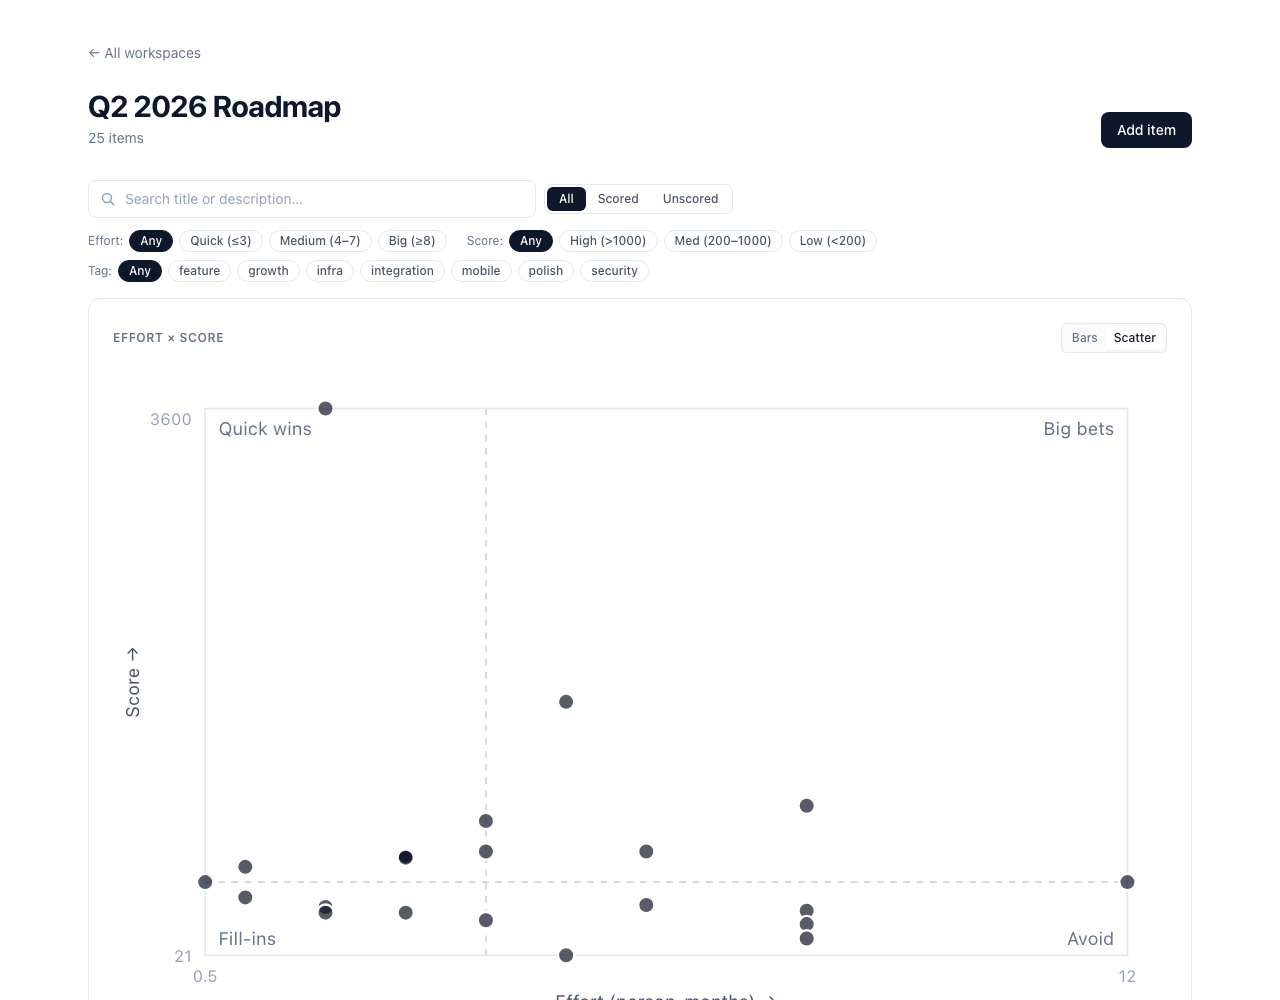
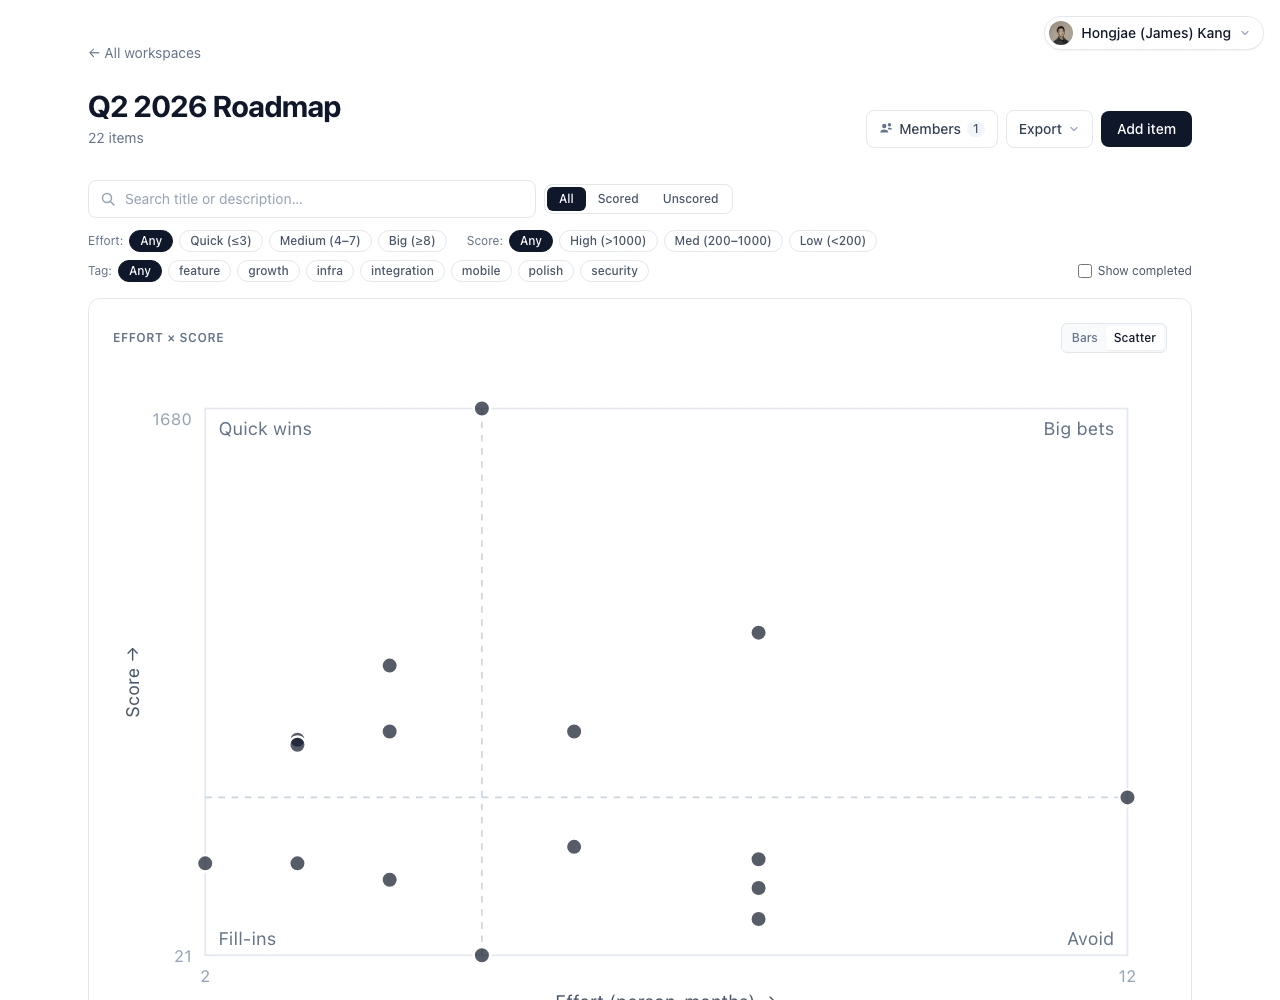
docs: refresh screenshot gallery for the shipped product
The README's screenshot story was stuck on a single-user RICE board
when the actual product now has four frameworks, collab, completion,
and three export targets. New gallery walks visitors through the
real shipped surface.

Capture infra
- `apps/web/scripts/capture-screenshots.mjs` accepts a `BEARER` env
  (the raw NextAuth session JWT from `/api/token`) and installs it
  as the `__Secure-authjs.session-token` cookie before each
  navigation. Without it the live deployment lands the headless
  browser on /auth/signin.
- Default workspace IDs now point at the production demo workspaces
  for each framework (`WS_RICE` / `WS_ICE` / `WS_MOSCOW` / `WS_VE`,
  all env-overridable).
- Seven new shots: ICE board, MoSCoW board, Value × Effort board,
  the completed-visible retro view, the Export dropdown open, the
  Members modal open, and the create-workspace modal with the
  custom framework dropdown expanded.
- Two interactive shots (members + framework picker) use
  `page.waitForLoadState("networkidle")` after the trigger click so
  the API round trip resolves before the screenshot fires.

Production build
- New `apps/web/.env.production` pins `NEXT_PUBLIC_API_BASE_URL` to
  the Render hostname. Without this file the local `next-on-pages`
  build inlined `http://localhost:8000` into the client bundle —
  which the browser refused to fetch from the public Cloudflare
  Pages origin as "private network access denied". SSR worked
[…]

diff --git a/README.md b/README.md
@@ -25,36 +25,54 @@
 
 ## Screenshots
 
-The board at a glance — filter bar, top-10 bar chart, and the table:
+The Q2 roadmap board at a glance — Members + Export + Add controls, framework-aware metric legend, Top-10 bar chart, the table, and the filter chips:
 
-![Board hero — Q2 2026 Roadmap with filters and bar chart](./docs/screenshots/01-board-hero.png)
+![Board hero — Q2 2026 Roadmap with members, export, filters, and bar chart](./docs/screenshots/01-board-hero.png)
 
 <table>
   <tr>
+    <td width="50%"><strong>Pick a framework per workspace</strong><br><sub>Custom dropdown on the create modal — every workspace can use a different prioritization framework</sub></td>
+    <td width="50%"><strong>ICE board</strong><br><sub>Polymorphic board with framework-specific columns (Impact / Confidence / Ease, 1–10 scale) and the I × C × E formula in the legend</sub></td>
+  </tr>
+  <tr>
+    <td><a href="./docs/screenshots/13-framework-picker.png"><img src="./docs/screenshots/13-framework-picker.png" alt="Framework dropdown on the create workspace modal — RICE, ICE, Value × Effort, MoSCoW"></a></td>
+    <td><a href="./docs/screenshots/07-ice-board.png"><img src="./docs/screenshots/07-ice-board.png" alt="ICE board with Impact / Confidence / Ease columns"></a></td>
+  </tr>
+  <tr>
+    <td width="50%"><strong>MoSCoW board</strong><br><sub>Categorical Must / Should / Could / Won't bucket assignments with their own framework intro line</sub></td>
+    <td width="50%"><strong>Value × Effort board</strong><br><sub>Two-input score = V ÷ E. Same polymorphic board variant; only the columns + formula change</sub></td>
+  </tr>
+  <tr>
+    <td><a href="./docs/screenshots/08-moscow-board.png"><img src="./docs/screenshots/08-moscow-board.png" alt="MoSCoW board with Must / Should / Could / Won't buckets"></a></td>
+    <td><a href="./docs/screenshots/09-value-effort-board.png"><img src="./docs/screenshots/09-value-effort-board.png" alt="Value × Effort board"></a></td>
+  </tr>
+  <tr>
+    <td width="50%"><strong>Invite teammates by email</strong><br><sub>Members modal — owner adds scorers; each member writes their own score row and the board ranks by the team aggregate</sub></td>
+    <td width="50%"><strong>Export menu (CSV / Notion / Linear)</strong><br><sub>Three targets behind a single dropdown. CSV downloads client-side; Notion and Linear hit per-user tokens stored against the user</sub></td>
+  </tr>
+  <tr>
+    <td><a href="./docs/screenshots/12-members-modal.png"><img src="./docs/screenshots/12-members-modal.png" alt="Members modal with owner pill and invite form"></a></td>
+    <td><a href="./docs/screenshots/11-export-menu.png"><img src="./docs/screenshots/11-export-menu.png" alt="Export dropdown showing CSV, Notion, and Linear options"></a></td>
+  </tr>
+  <tr>
+    <td width="50%"><strong>Completion checkbox + retro view</strong><br><sub>Shipped items strike through and sink to the bottom; <code>?completed=show</code> mixes them back in for the retrospective</sub></td>
     <td width="50%"><strong>Effort × Score scatter (RICE)</strong><br><sub>PM's classic 2×2 quadrant: Quick wins / Big bets / Fill-ins / Avoid</sub></td>
-    <td width="50%"><strong>Multiple workspaces, multiple frameworks</strong><br><sub>Each workspace picks its own scoring framework — RICE, ICE, Value × Effort, or MoSCoW</sub></td>
   </tr>
   <tr>
+    <td><a href="./docs/screenshots/10-completed-visible.png"><img src="./docs/screenshots/10-completed-visible.png" alt="Board with completed items visible, struck-through and dimmed"></a></td>
     <td><a href="./docs/screenshots/02-scatter-view.png"><img src="./docs/screenshots/02-scatter-view.png" alt="Effort × Score scatter plot"></a></td>
-    <td><a href="./docs/screenshots/03-workspaces-list.png"><img src="./docs/screenshots/03-workspaces-list.png" alt="Workspaces list"></a></td>
   </tr>
   <tr>
-    <td width="50%"><strong>Effort + Tag chip filters</strong><br><sub>Quick (≤3) effort + <code>feature</code> tag narrows 25 items to a focused slice — Score bucket sits alongside, ready to layer on</sub></td>
-    <td width="50%"><strong>Inline (i) tooltips on every metric</strong><br><sub>Hover, focus, or tap for the RICE-specific scale (0.25 → 3 etc.)</sub></td>
+    <td width="50%"><strong>Filter chips — Effort / Score / Tag / Completed</strong><br><sub>Each chip group writes its state into the URL so a focused view is shareable</sub></td>
+    <td width="50%"><strong>Inline (i) tooltips on every metric</strong><br><sub>Hover, focus, or tap for the framework-specific scale (0.25 → 3 for RICE Impact, 1–10 for ICE, bucket labels for MoSCoW)</sub></td>
   </tr>
   <tr>
-    <td><a href="./docs/screenshots/05-filter-buckets.png"><img src="./docs/screenshots/05-filter-buckets.png" alt="Bucket filter chips active"></a></td>
+    <td><a href="./docs/screenshots/05-filter-buckets.png"><img src="./docs/screenshots/05-filter-buckets.png" alt="Effort + Tag bucket filter chips active"></a></td>
     <td><a href="./docs/screenshots/06-tooltip-impact.png"><img src="./docs/screenshots/06-tooltip-impact.png" alt="Impact tooltip showing the 5-point RICE scale"></a></td>
-  </tr>
-  <tr>
-    <td colspan="2"><strong>Live text search — title + description with URL state</strong><br><sub>e.g. <code>?q=integration&status=scored&view=scatter</code> survives refresh and is shareable</sub></td>
-  </tr>
-  <tr>
-    <td colspan="2"><a href="./docs/screenshots/04-filter-search.png"><img src="./docs/screenshots/04-filter-search.png" alt="Live filter narrowing 25 items to one match"></a></td>
   </tr>
 </table>
 
-> Regenerate any time with `pnpm --filter @frameboard/web exec node scripts/capture-screenshots.mjs`. Defaults target the live deployment; pass `BASE=http://localhost:3000 WS_Q2=<id>` to capture from a local dev server before pushing changes that aren't deployed yet.
+> Regenerate any time with `BEARER=<jwt> pnpm --filter @frameboard/web exec node scripts/capture-screenshots.mjs`. The BEARER comes from `https://<your-deploy>/api/token` after signing in. Pass `BASE=http://localhost:3000` (and the matching `WS_*` IDs) to capture against a local dev server instead of the live deployment.
 
 ## Why Frameboard?
 
